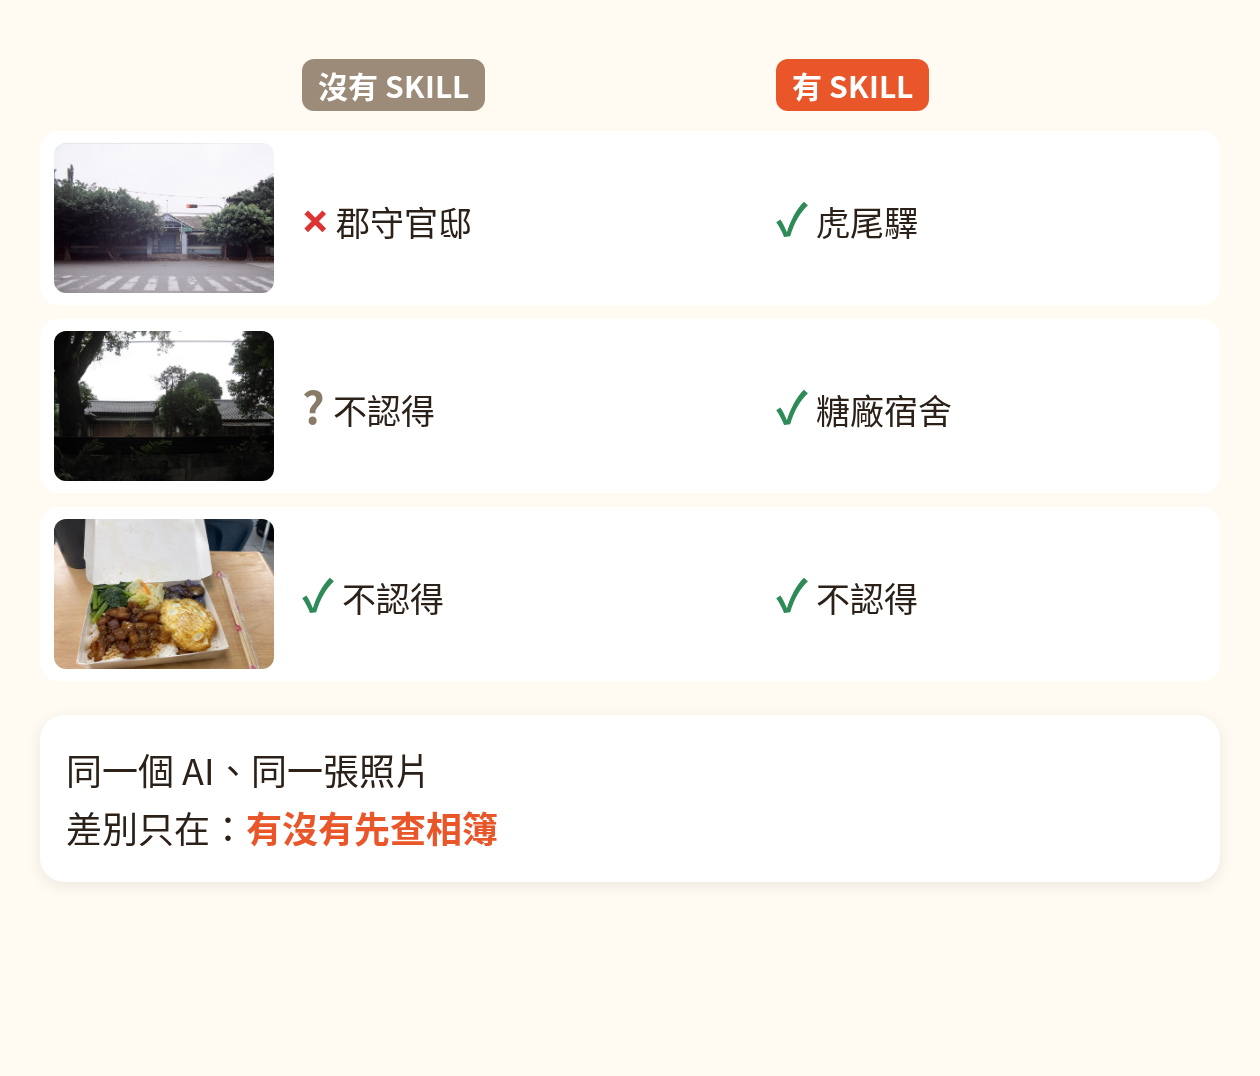
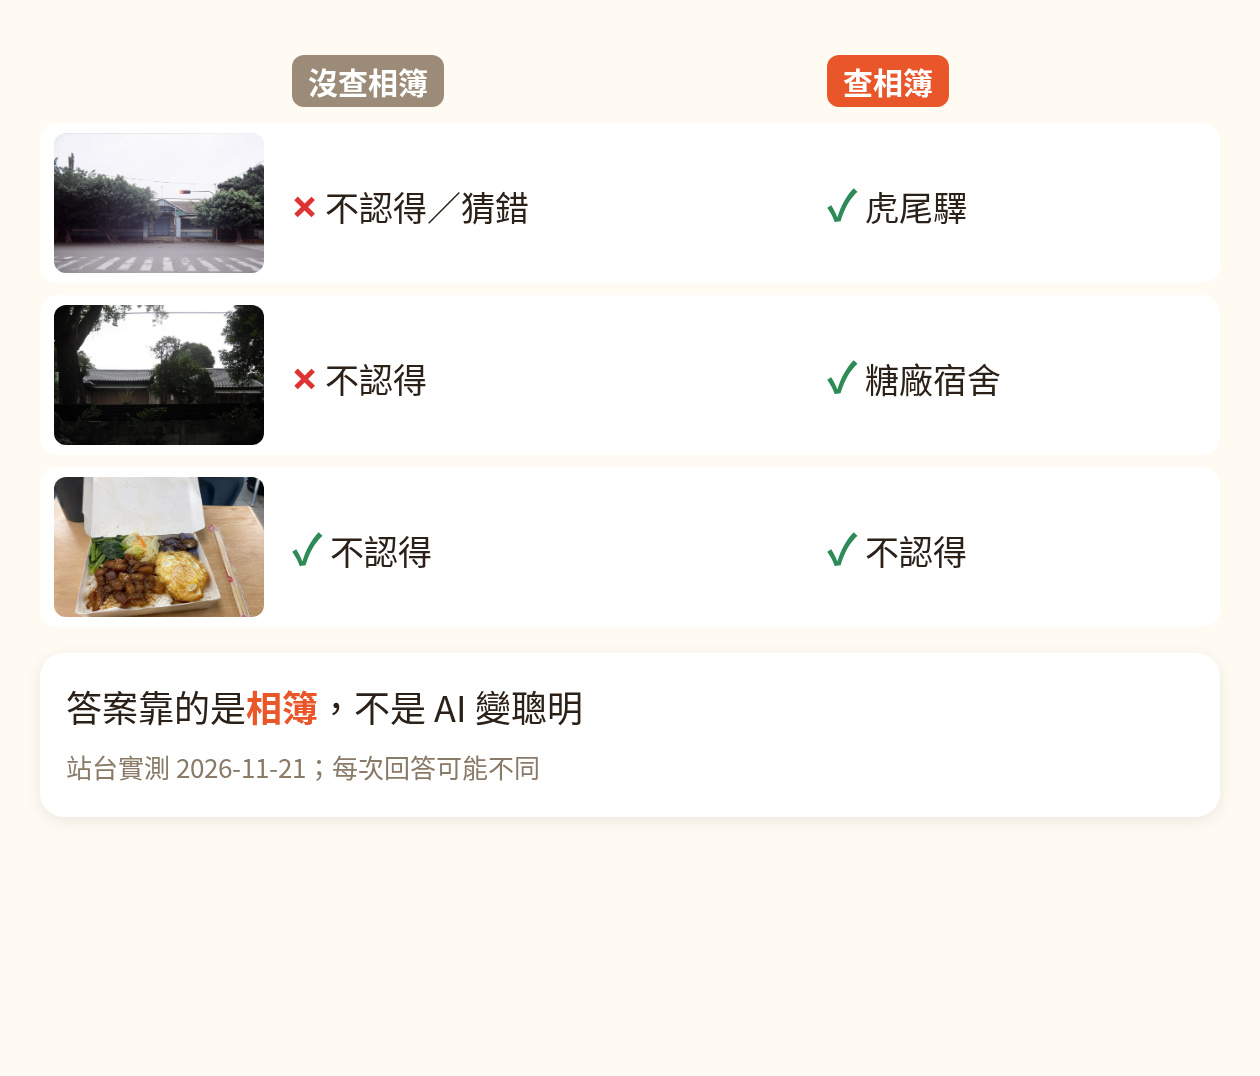
[pm] feat: workshop 頁改為查相簿對照 + 軌跡 + 成績單

diff --git a/assets/src/s1-15-workshop.html b/assets/src/s1-15-workshop.html
@@ -1,11 +1,11 @@
-<!doctype html><meta charset="utf-8"><link rel="stylesheet" href="_sq.css"><style>table{border-collapse:separate;border-spacing:0 14px;width:100%}
-th{font-size:38px;padding:0 14px 6px;text-align:left}td{background:#fff;padding:12px 14px;font-size:34px;line-height:1.3}
-td:first-child{border-radius:18px 0 0 18px;width:230px}td:last-child{border-radius:0 18px 18px 0}
-td img{width:220px;height:150px;object-fit:cover;border-radius:12px;display:block}.k{font-size:44px;font-weight:700}
+<!doctype html><meta charset="utf-8"><link rel="stylesheet" href="_sq.css"><style>table{border-collapse:separate;border-spacing:0 12px;width:100%}
+th{font-size:36px;padding:0 14px 4px;text-align:left}td{background:#fff;padding:10px 14px;font-size:34px;line-height:1.3}
+td:first-child{border-radius:18px 0 0 18px;width:220px}td:last-child{border-radius:0 18px 18px 0}
+td img{width:210px;height:140px;object-fit:cover;border-radius:12px;display:block}.k{font-size:42px;font-weight:700}
 .hd{display:inline-block;border-radius:12px;padding:4px 16px;color:#fff;font-size:30px}</style>
-<div id="card"><table><tr><th></th><th><span class="hd" style="background:#9b8b78">沒有 SKILL</span></th><th><span class="hd" style="background:#e8562a">有 SKILL</span></th></tr>
-<tr><td><img src="../photos/虎尾驛-2-commons.jpg"></td><td><span class="k bad">✕</span> 郡守官邸</td><td><span class="k ok">✓</span> 虎尾驛</td></tr>
-<tr><td><img src="../photos/虎尾糖廠第三公差宿舍-1-commons.jpg"></td><td><span class="k muted">?</span> 不認得</td><td><span class="k ok">✓</span> 糖廠宿舍</td></tr>
+<div id="card"><table><tr><th></th><th><span class="hd" style="background:#9b8b78">沒查相簿</span></th><th><span class="hd" style="background:#e8562a">查相簿</span></th></tr>
+<tr><td><img src="../photos/虎尾驛-2-commons.jpg"></td><td><span class="k bad">✕</span> 不認得／猜錯</td><td><span class="k ok">✓</span> 虎尾驛</td></tr>
+<tr><td><img src="../photos/虎尾糖廠第三公差宿舍-1-commons.jpg"></td><td><span class="k bad">✕</span> 不認得</td><td><span class="k ok">✓</span> 糖廠宿舍</td></tr>
 <tr><td><img src="../photos/lunch-ai.jpg"></td><td><span class="k ok">✓</span> 不認得</td><td><span class="k ok">✓</span> 不認得</td></tr>
 </table>
-<div class="box" style="margin-top:20px;font-size:36px;line-height:1.6">同一個 AI、同一張照片<br>差別只在：<b style="color:#e8562a">有沒有先查相簿</b></div></div>
+<div class="box" style="margin-top:14px;font-size:36px;line-height:1.55">答案靠的是<b style="color:#e8562a">相簿</b>，不是 AI 變聰明<br><span class="muted" style="font-size:26px">站台實測 2026-11-21；每次回答可能不同</span></div></div>

diff --git a/assets/src/s1-17-traj.html b/assets/src/s1-17-traj.html
@@ -1,0 +1,5 @@
+<!doctype html><meta charset="utf-8"><link rel="stylesheet" href="_sq.css"><div id="card" style="display:flex;flex-direction:column;gap:20px">
+<div style="height:180px;overflow:hidden;position:relative;border-radius:24px;box-shadow:0 4px 16px rgba(0,0,0,.12);background:#fff"><img src="../shots/site-trajectory.png" style="position:absolute;width:2000px;left:-420px;top:-50px"></div>
+<div style="height:620px;overflow:hidden;position:relative;border-radius:24px;box-shadow:0 4px 16px rgba(0,0,0,.12);background:#fff"><img src="../shots/site-trajectory.png" style="position:absolute;width:2000px;left:-420px;top:-450px"></div>
+<div class="box" style="font-size:36px;line-height:1.5"><b>skill huwei</b> → 載入助教<br><b>bash … ask</b> → 查相簿 + AI 確認</div>
+</div>

diff --git a/assets/src/s1-16-exam.html b/assets/src/s1-16-exam.html
@@ -1,0 +1,1 @@
+<!doctype html><meta charset="utf-8"><link rel="stylesheet" href="_sq.css"><div id="card" style="display:flex;align-items:center"><div style="width:1180px;height:900px;overflow:hidden;position:relative;border-radius:24px;box-shadow:0 4px 16px rgba(0,0,0,.12);background:#fff"><img src="../shots/site-exam.png" style="position:absolute;width:1900px;left:-620px;top:-110px"></div></div>
